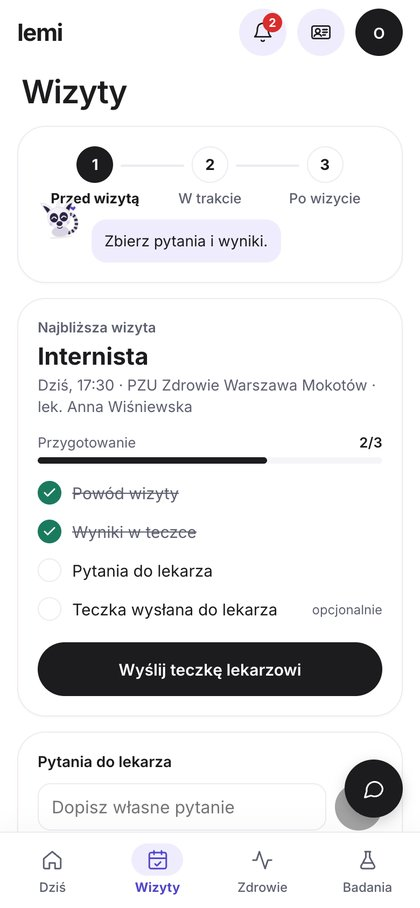
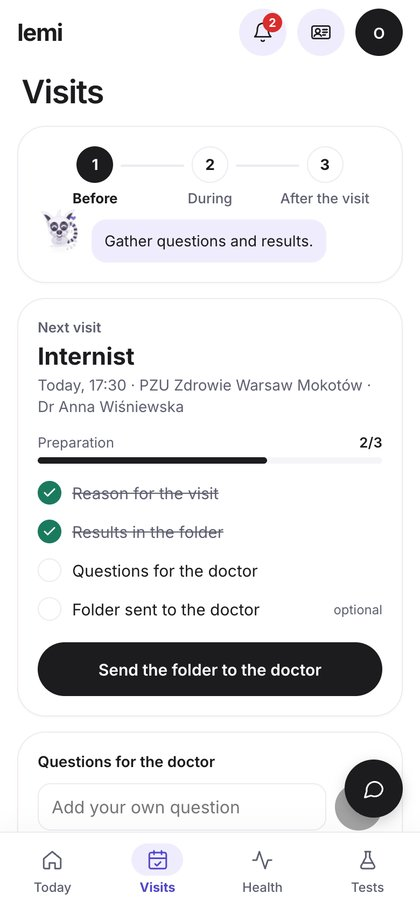
Lemi screens in English; ignore local tools

diff --git a/index.html b/index.html
@@ -721,6 +721,7 @@ mark.dp[data-sev="critical"]{--sev:#e5484d}mark.dp[data-sev="warning"]{--sev:#f5
         <figure class="phone reveal d1"><div class="device"><img src="assets/lemi/today.jpg" width="420" height="908" alt="Lemi Today screen with mood, next visit and a relative's pulse" loading="lazy"></div><figcaption><b>Today</b>Mood, the next visit, and a grandmother whose pulse has been higher for days.</figcaption></figure>
         <figure class="phone reveal"><div class="device"><img src="assets/lemi/visits.jpg" width="420" height="908" alt="Lemi visit preparation screen" loading="lazy"></div><figcaption><b>Visits</b>Before, during, after: questions and a folder for the doctor.</figcaption></figure>
         <figure class="phone reveal d1"><div class="device"><img src="assets/lemi/health.jpg" width="420" height="908" alt="Lemi health screen with sleep, pulse, HRV and steps" loading="lazy"></div><figcaption><b>Health</b>Sleep, resting pulse, HRV, steps and mood over time.</figcaption></figure>
+        <p class="note" style="grid-column:1/-1;margin-top:2.5rem">Shown in English for this page; the demo runs in Polish.</p>
       </div>
     </div>
   </div>
